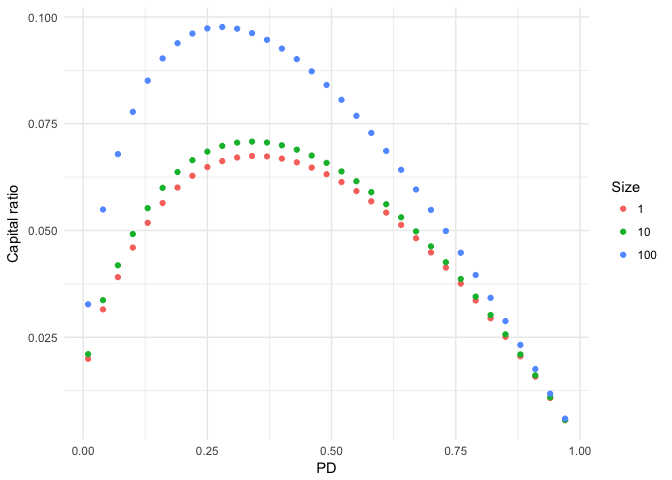
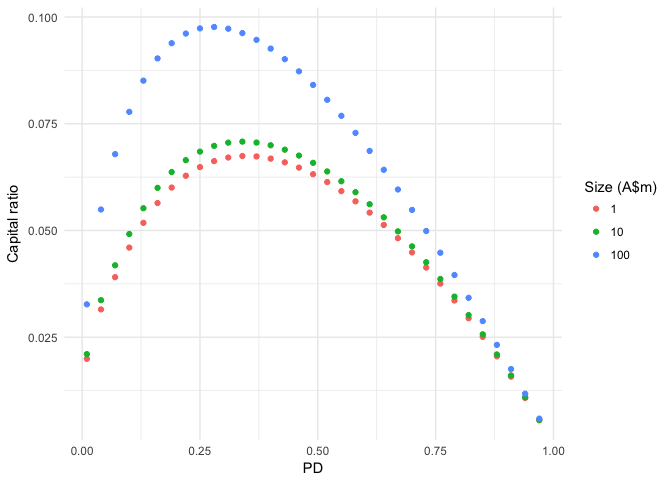
Correct label

diff --git a/README.md b/README.md
@@ -47,7 +47,7 @@ df <- tibble(pd, lgd, size, k)
 ggplot(df, aes(x = pd, y = k, colour = as.character(size))) + 
   geom_point() +
   theme_minimal() +
-  labs(x = "PD", y = "Capital ratio", colour = "Size")
+  labs(x = "PD", y = "Capital ratio", colour = "Size (A$m)")
 ```
 
 ![](README-non_retail_example-1.png)
